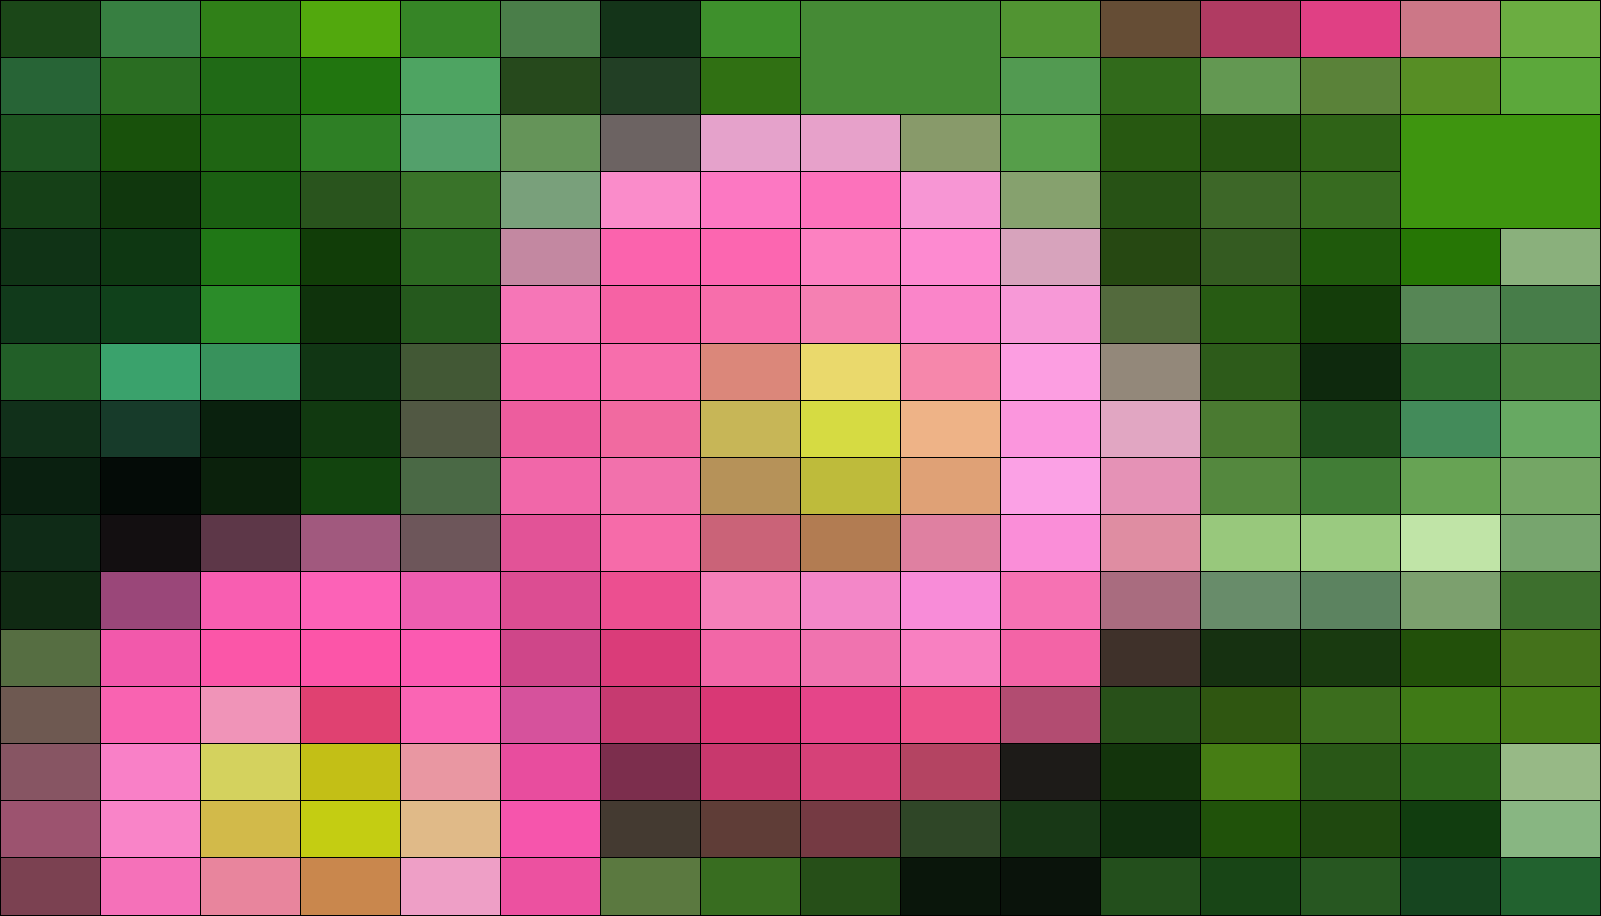
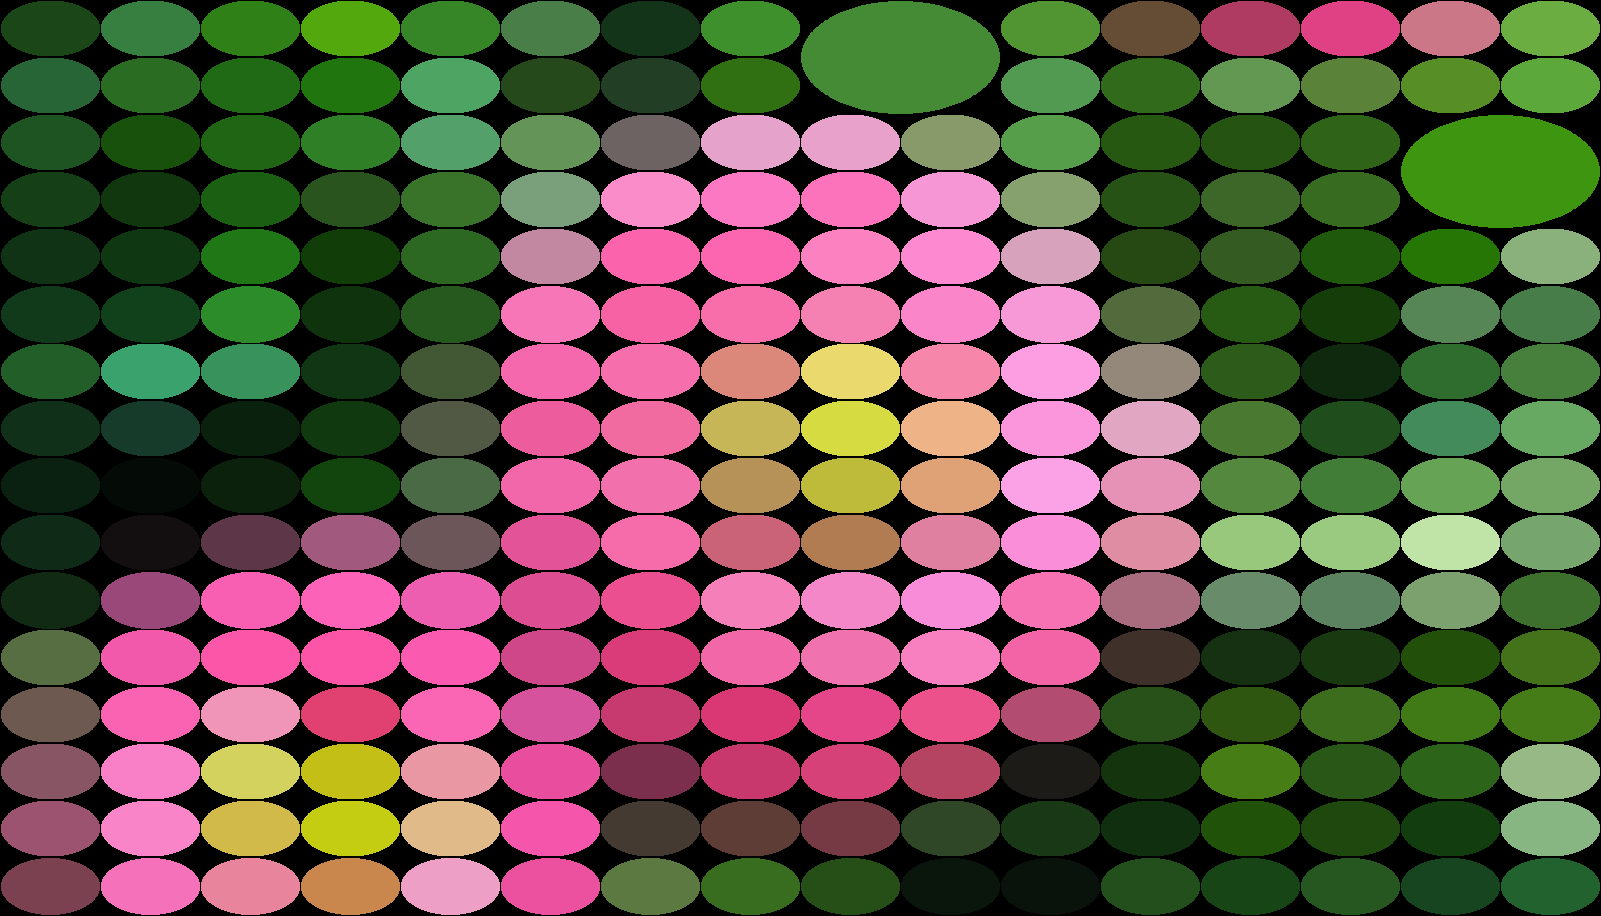
Beta is Ready!

diff --git a/main.py b/main.py
@@ -3,12 +3,8 @@ from collections import Counter
 import heapq
 import sys
 
-MODE_RECTANGLE = 1
-MODE_ELLIPSE = 2
-MODE_ROUNDED_RECTANGLE = 3
+MODE_RECTANGLE, MODE_ELLIPSE, MODE_ROUNDED_RECTANGLE = 1, 2, 3
 
-MODE = MODE_RECTANGLE
-ITERATIONS = 1024
 LEAF_SIZE = 4
 PADDING = 1
 FILL_COLOR = (0, 0, 0)
@@ -113,33 +109,36 @@ class Model(object):
         for quad in self.root.get_leaf_nodes(max_depth):
             l, t, r, b = quad.box
             box = (l * m + dx, t * m + dy, r * m - 1, b * m - 1)
+            fColor = (int(quad.color[0]), int(quad.color[1]), int(quad.color[2]))
+            MODE = int(sys.argv[1:][2])
             if MODE == MODE_ELLIPSE:
-                draw.ellipse(box, quad.color)
+                draw.ellipse(box, fColor)
             elif MODE == MODE_ROUNDED_RECTANGLE:
                 radius = m * min((r - l), (b - t)) / 4
-                rounded_rectangle(draw, box, radius, quad.color)
+                rounded_rectangle(draw, box, radius, fColor)
             else:
-                print(quad.color)
-                draw.rectangle(box, (int(quad.color[0]), int(quad.color[1]), int(quad.color[2])))
+                draw.rectangle(box, fill=fColor)
         del draw
         im.save(path, 'PNG')
+        return im
 
 def main():
     args = sys.argv[1:]
-    if len(args) != 1:
-        print('Usage: python main.py input_image')
-        return
+    if len(args) != 3:
+        print('Usage: python main.py input_image iterations mode')
     model = Model(args[0])
+    ITERATIONS = int(args[1])
+    # the optinal modes are: [MODE_RECTANGLE, MODE_ELLIPSE, MODE_ROUNDED_RECTANGLE]
     previous = None
     for i in range(ITERATIONS):
         error = model.average_error()
         if previous is None or previous - error > ERROR_RATE:
-            print(i, error)
             if SAVE_FRAMES:
                 model.render('frames/%06d.png' % i)
             previous = error
         model.split()
-    model.render('output.png')
+    im = model.render('output.png')
+    im.show()
     print('-' * 32)
     depth = Counter(x.depth for x in model.quads)
     for key in sorted(depth):
@@ -151,6 +150,9 @@ def main():
     print('             %8d %8.2f%%' % (len(model.quads), 100))
     for max_depth in range(max(depth.keys()) + 1):
         model.render('out%d.png' % max_depth, max_depth)
+    print('\n' + "_" * 32 + '\n')
+    print("Thank you for using our software!")
+    print("_" * 32)
 
 if __name__ == '__main__':
     main()
